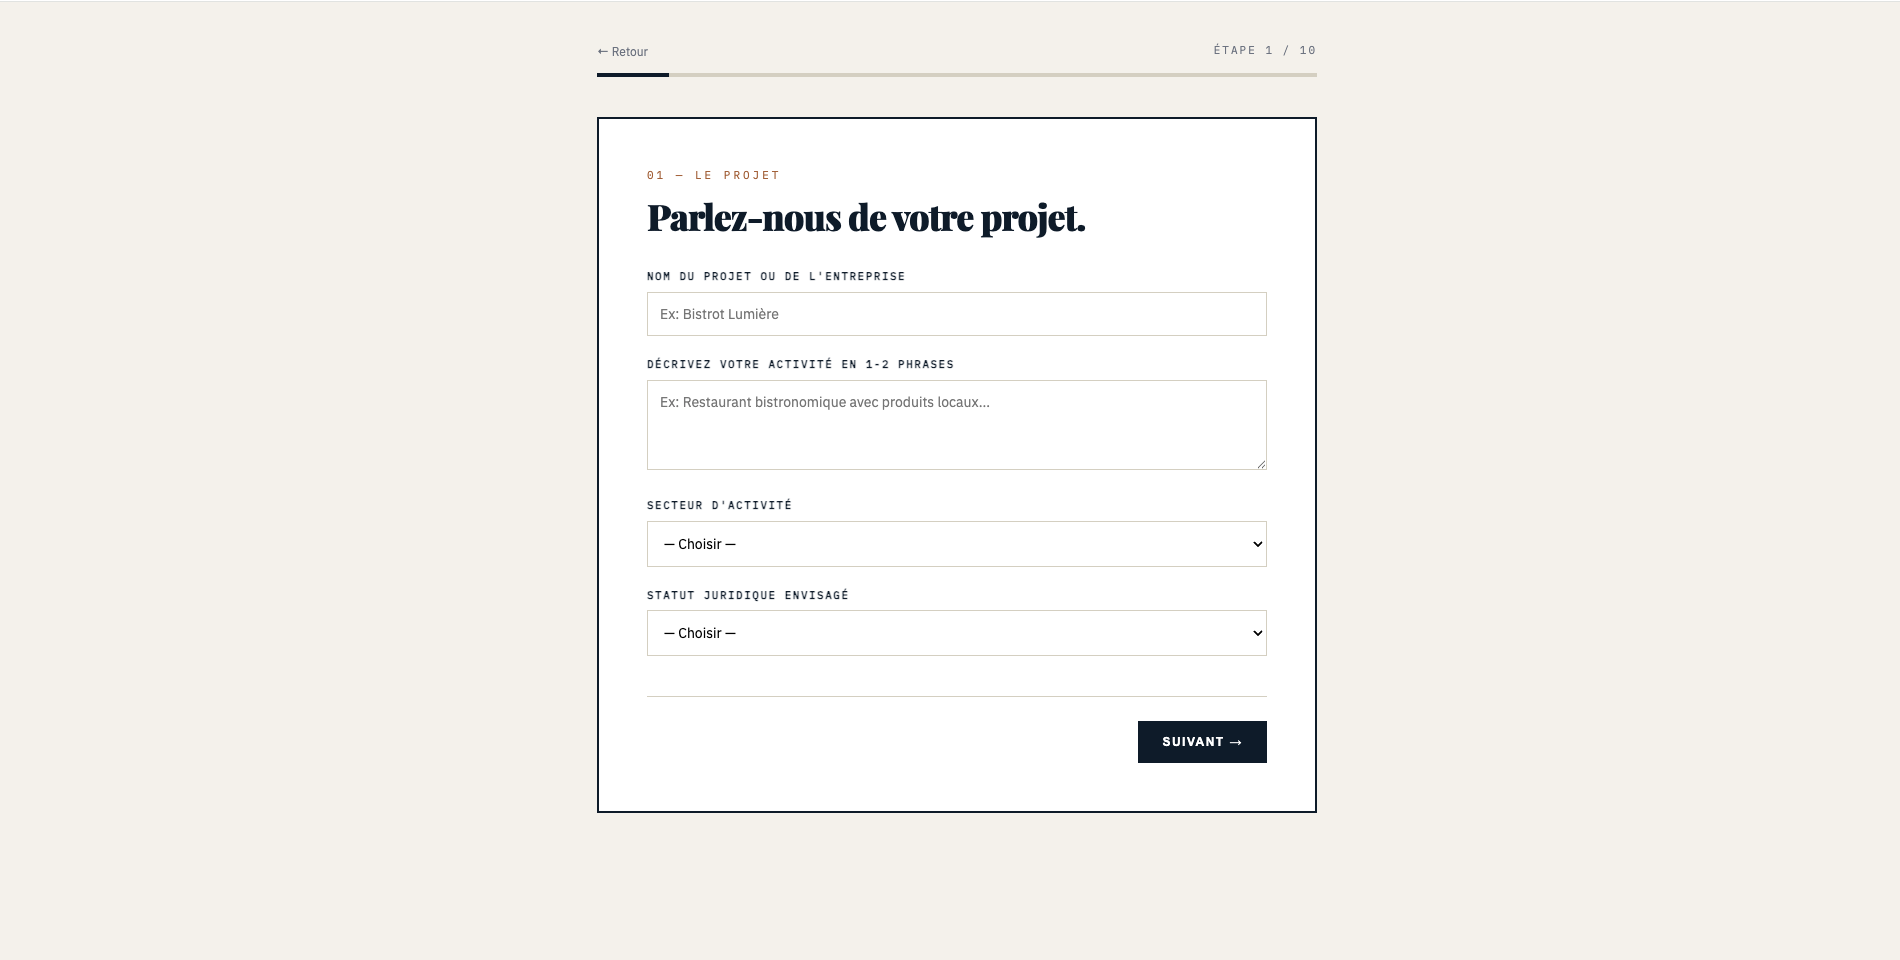
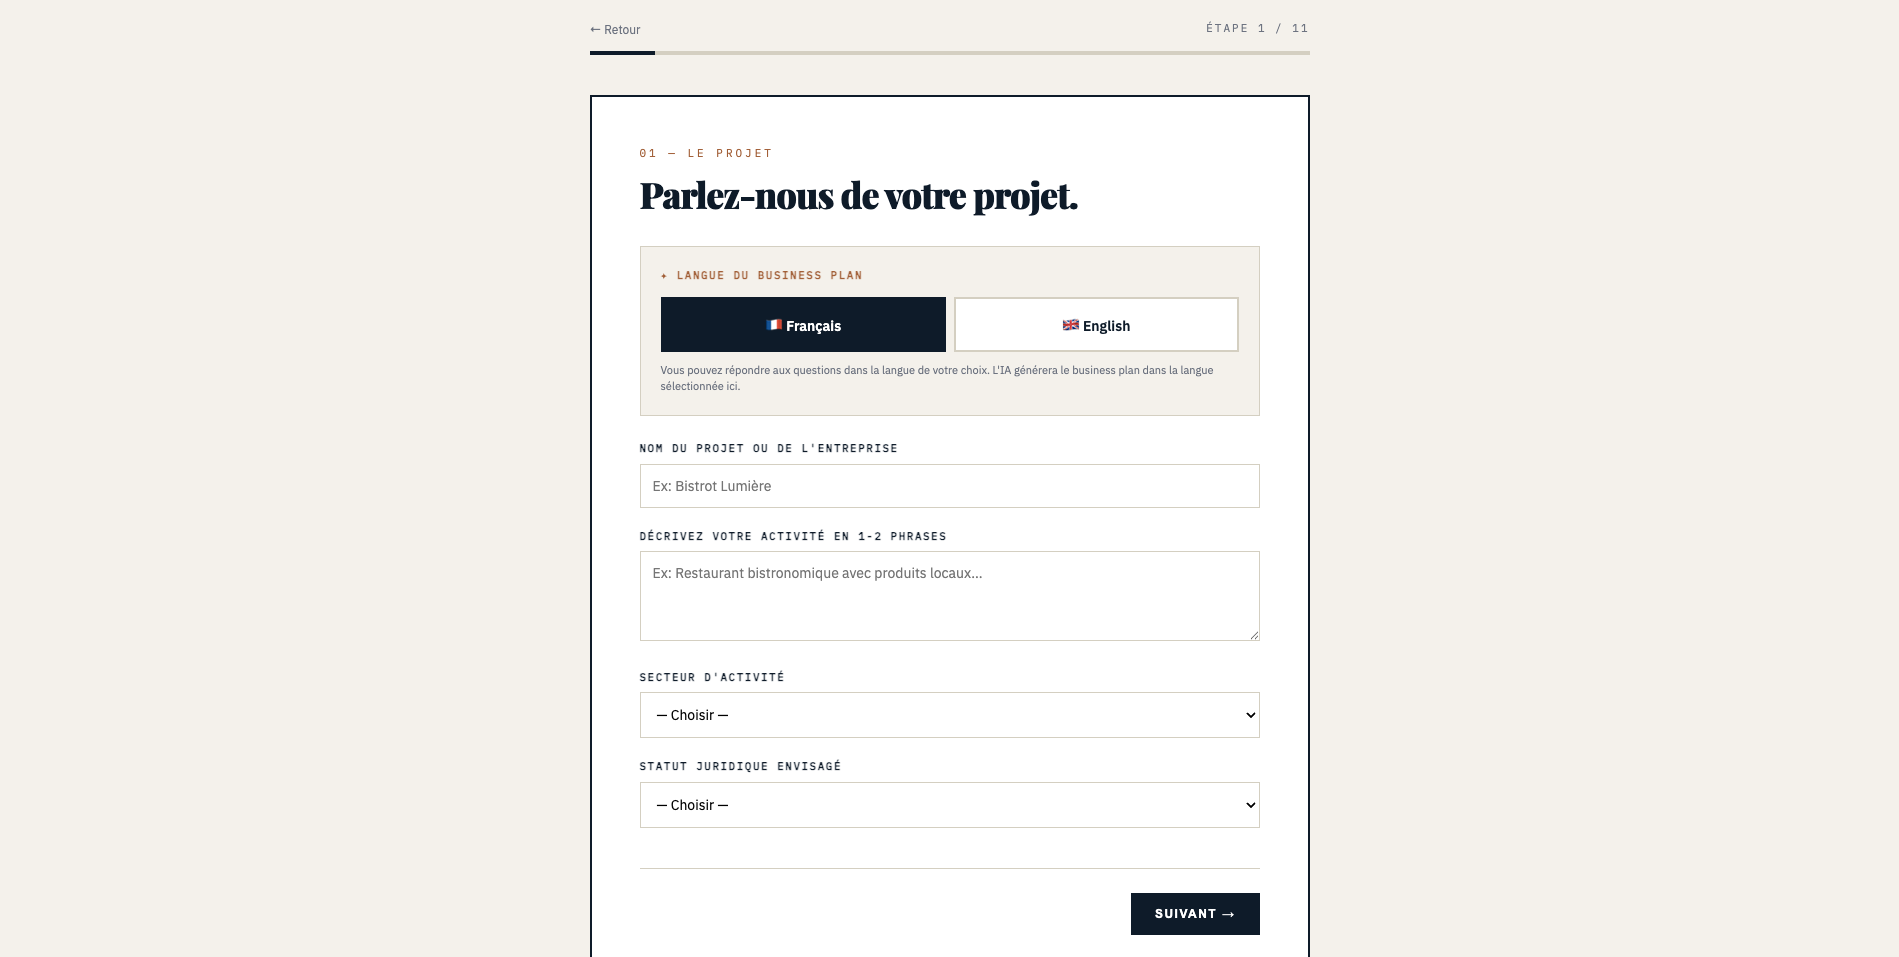
Update step numbers on exemples page

diff --git a/app/exemples/page.tsx b/app/exemples/page.tsx
@@ -109,7 +109,7 @@ export default function ExemplesPage() {
           number="02"
           eyebrow="Questionnaire guidé"
           title="33 questions pour saisir l'essentiel de votre projet."
-          description="Pas de jargon, pas d'expertise requise. Un parcours en 10 étapes qui couvre tout ce qu'attend un banquier ou un investisseur."
+          description="Pas de jargon, pas d'expertise requise. Un parcours en 11 étapes qui couvre tout ce qu'attend un banquier ou un investisseur."
           image="/screenshots/02-questionnaire.png"
           reverse={true}
         />
